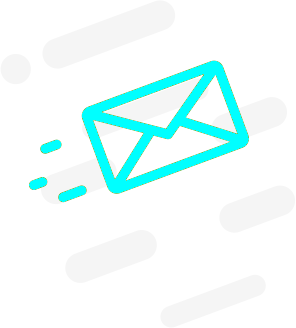
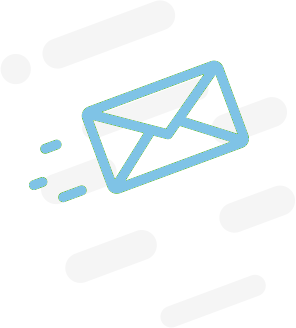
background change for contact us form

diff --git a/index.html b/index.html
@@ -368,11 +368,11 @@ window.dataLayer = window.dataLayer || [];
 
 
 <div id="section0">
-  <div class="caption">
+  <!--<div class="caption">
     <div class="text">COMING SOON</div>
     <div id="demo"></div>
     <div id="home">PULZION 19</div>
-  </div>
+  </div>-->
 
   <div id="ui">
   <div class="ui-hud">
@@ -653,7 +653,7 @@ window.dataLayer = window.dataLayer || [];
     </div>
   </div>
 </div>
-<div class="modal fade wa" tabindex="-1" role="dialog" aria-labelledby="mySmallModalLabel" aria-hidden="true">
+<!--<div class="modal fade wa" tabindex="-1" role="dialog" aria-labelledby="mySmallModalLabel" aria-hidden="true">
   <div class="modal-dialog modal-lg">
     <div class="modal-content">
       <div class="modal-header">
@@ -667,7 +667,7 @@ window.dataLayer = window.dataLayer || [];
 
     </div>
   </div>
-</div>
+</div>-->
 <div class="modal fade rc" tabindex="-1" role="dialog" aria-labelledby="mySmallModalLabel" aria-hidden="true">
   <div class="modal-dialog modal-lg">
     <div class="modal-content">
@@ -849,11 +849,11 @@ window.dataLayer = window.dataLayer || [];
     </button>
     </div>
 
-    <div>
+    <!--<div>
       <button type="button"  data-toggle="modal" data-target=".wa" ><h3>WEB/APP.DEVELOPMENT</h3>
     <img src="img/events/webapp.jpg" class=" responsive" >   
     </button>   
-    </div>
+    </div>-->
 
     <div>
       <button type="button"  data-toggle="modal" data-target=".rc" ><h3>Recode It</h3>
@@ -883,7 +883,7 @@ window.dataLayer = window.dataLayer || [];
     <img src="img/events/fandomquiz.jpg" class=" responsive" >
     </button>
     </div>
-  
+
     <div>
       <button type="button"  data-toggle="modal" data-target=".ps" ><h3>PHOTOSHOP</h3>
     <img src="img/events/psroyale.jpg" class=" responsive">
@@ -985,7 +985,6 @@ window.dataLayer = window.dataLayer || [];
 
 <div class="section4">
     <div id="contactus">CONTACT US</div>
-    <br><br>
   <div class="contact1">
     <div class="container-contact1">
       <div class="contact1-pic js-tilt" data-tilt>

diff --git a/main.css b/main.css
@@ -133,7 +133,7 @@
     min-height: 100%;
     padding: 15px;
   
-    background: #222222;
+    background: #25274D;
     display: flex;
     flex-wrap: wrap;
     justify-content: center;
@@ -142,7 +142,7 @@
   
   .container-contact1 {
     width: 1163px;
-    background: #fff;
+    background: #2020202;
     border-radius: 10px;
     overflow: hidden;
   
@@ -179,7 +179,7 @@
     display: block;
     font-family: 'Quantico',sans-serif;
     font-size: 24px;
-    color: #333333;
+    color: #fff;
     line-height: 1.2;
     text-align: center;
     padding-bottom: 44px;
@@ -268,7 +268,7 @@
     min-width: 193px;
     height: 50px;
     border-radius: 25px;
-    background: cyan;
+    background: #0E89CB;
     font-family: 'Quantico',sans-serif;
     font-size: 15px;
     line-height: 1.5;
@@ -298,7 +298,7 @@
   }
   
   .contact1-form-btn:hover {
-    background: #333333;
+    background: #25274D;
   }
   
   .contact1-form-btn:hover i {

diff --git a/home-ani.css b/home-ani.css
@@ -2410,6 +2410,7 @@ i.fly-in-out {
   }
   .border-v {
     visibility: hidden;
+  } 
   }
   @media only screen and (min-width : 480px) and (max-width : 768px) {
     .scaled{

diff --git a/style.css b/style.css
@@ -165,7 +165,7 @@ nav {
   font-weight: bold;
   position: relative;
   text-align: center;
-  margin-top: 290px;
+  margin-top: 150px;
 }
 
  #events {
